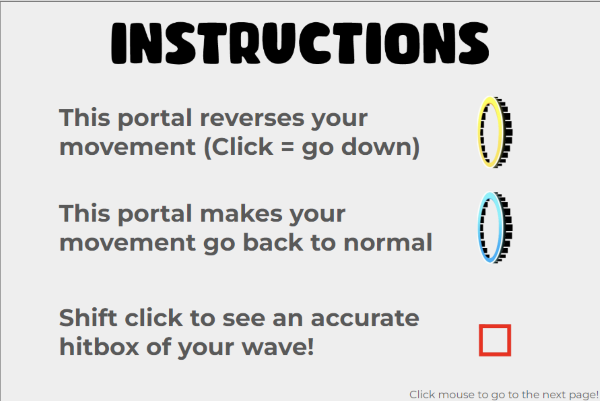
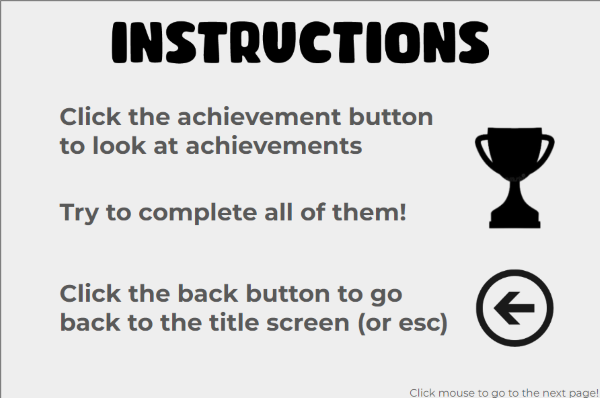
Added an extra help page

diff --git a/HelpScreen.java b/HelpScreen.java
@@ -13,7 +13,7 @@ public class HelpScreen extends World
     int icon;
     int highScore;
     
-    GreenfootImage[] bg = new GreenfootImage[4];
+    GreenfootImage[] bg = new GreenfootImage[5];
     
     //boolean to keep track of mouse click
     boolean pressed;
@@ -38,7 +38,7 @@ public class HelpScreen extends World
         highScore = hiScore;
         
         //Create array with four images, each image showing new instructions
-        for(int i = 0; i<4; i++){
+        for(int i = 0; i<5; i++){
             bg[i] = new GreenfootImage("images/help_screen/help" + i + ".png");
         }
         //Show first image
@@ -49,7 +49,7 @@ public class HelpScreen extends World
     }
     
     public void act(){
-        clicked(3, bg);
+        clicked(4, bg);
     }
     
     /**
